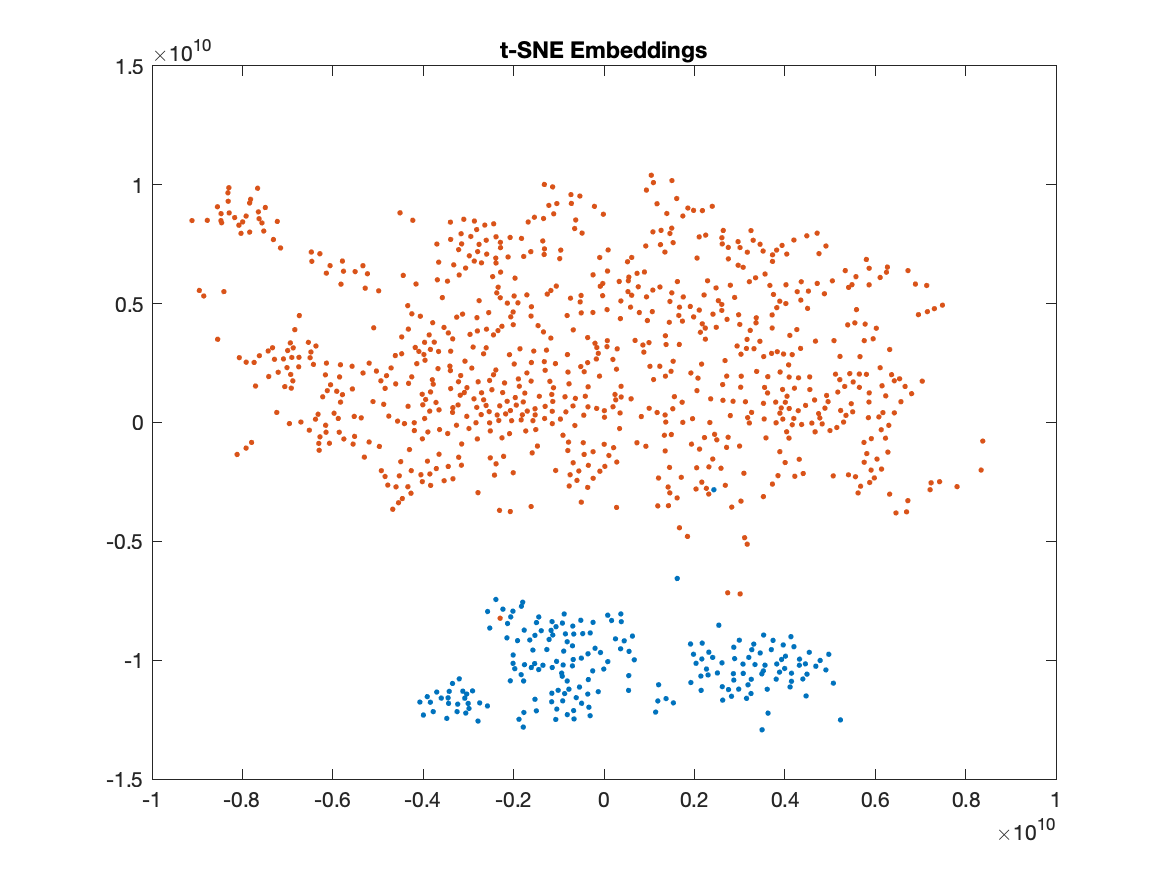
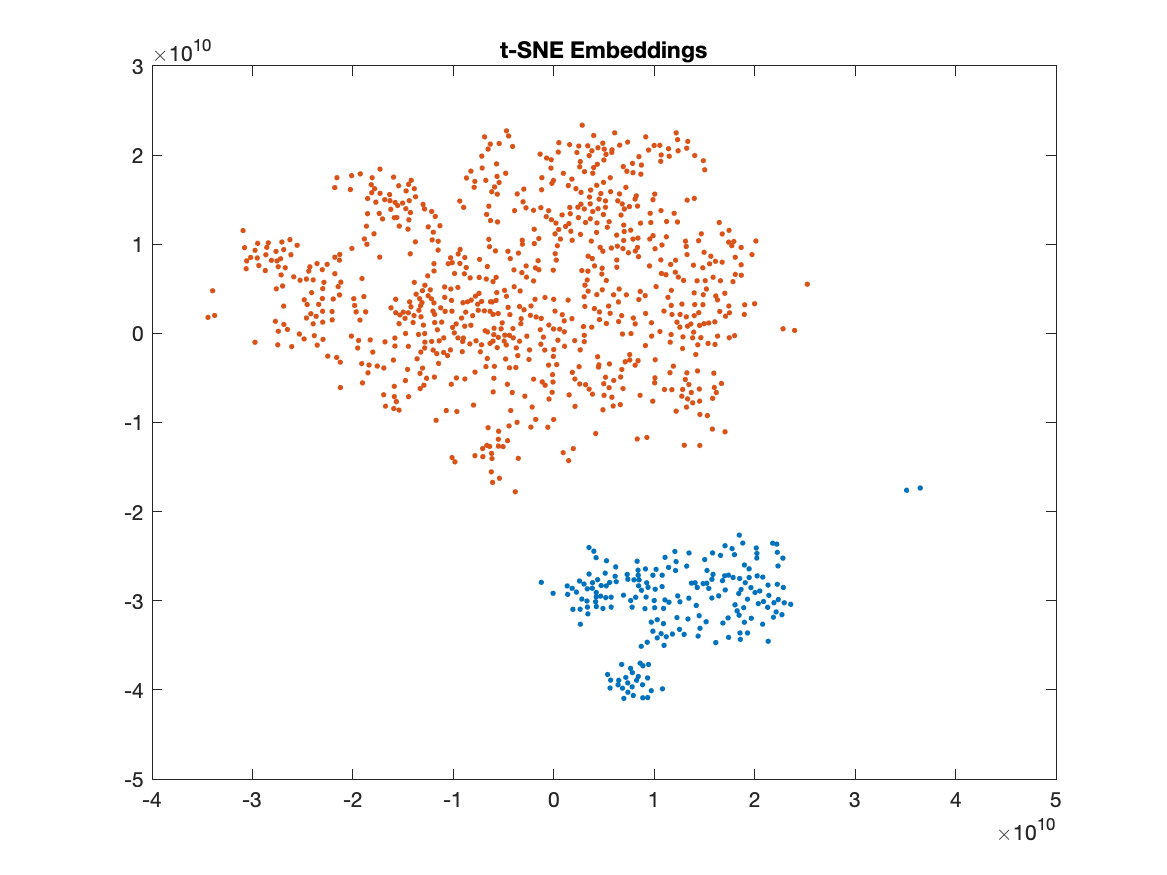
rerun mpnet with shuffled rows

diff --git a/thesis/shakespear_trump.m b/thesis/shakespear_trump.m
@@ -13,7 +13,9 @@ imageDir = fullfile(projectDir, 'images', 'shakespear_trump');
 tableDir = fullfile(projectDir, 'tables', 'shakespear_trump');
 datasetDir = fullfile(projectDir, 'datasets', 'shakespear_trump');
 
-file = fullfile(datasetDir,"shakespear_trump_all-mpnet-base-v2.parquet");
+modelName = "all-mpnet-base-v2";
+
+file = fullfile(datasetDir, ['shakespear_trump' '_' char(modelName) '.parquet']);
 
 mkdir(imageDir);
 mkdir(tableDir);
@@ -86,7 +88,7 @@ stats = [
         runComparison(eps40, eps40Labels, 0.4, 0.5); runComparison(eps40, eps40Labels, 0.4, 0.75); runComparison(eps40, eps40Labels, 0.4, 0.9)
         ];
 
-writetable(stats, fullfile(tableDir, "comparison.csv"));
+writetable(stats, fullfile(tableDir, ['comparison' '_' char(modelName) '.csv']));
 
 %% Functions
 
@@ -112,6 +114,10 @@ function [embeddings,labels] = generateSample(filepath, sampleSize, outlierConta
 
     embeddings = cell2mat(cellfun(@transpose,data.embedding, UniformOutput=false));
     labels = renamecats(data.author, {'trump' 'shakespear'}, {'inlier' 'outlier'});
+
+    perm = randperm(height(embeddings));
+    embeddings = embeddings(perm, :);
+    labels = labels(perm, :);
 end
 
 function stats = runComparison(data, labels, outlierContamination, robustness)
